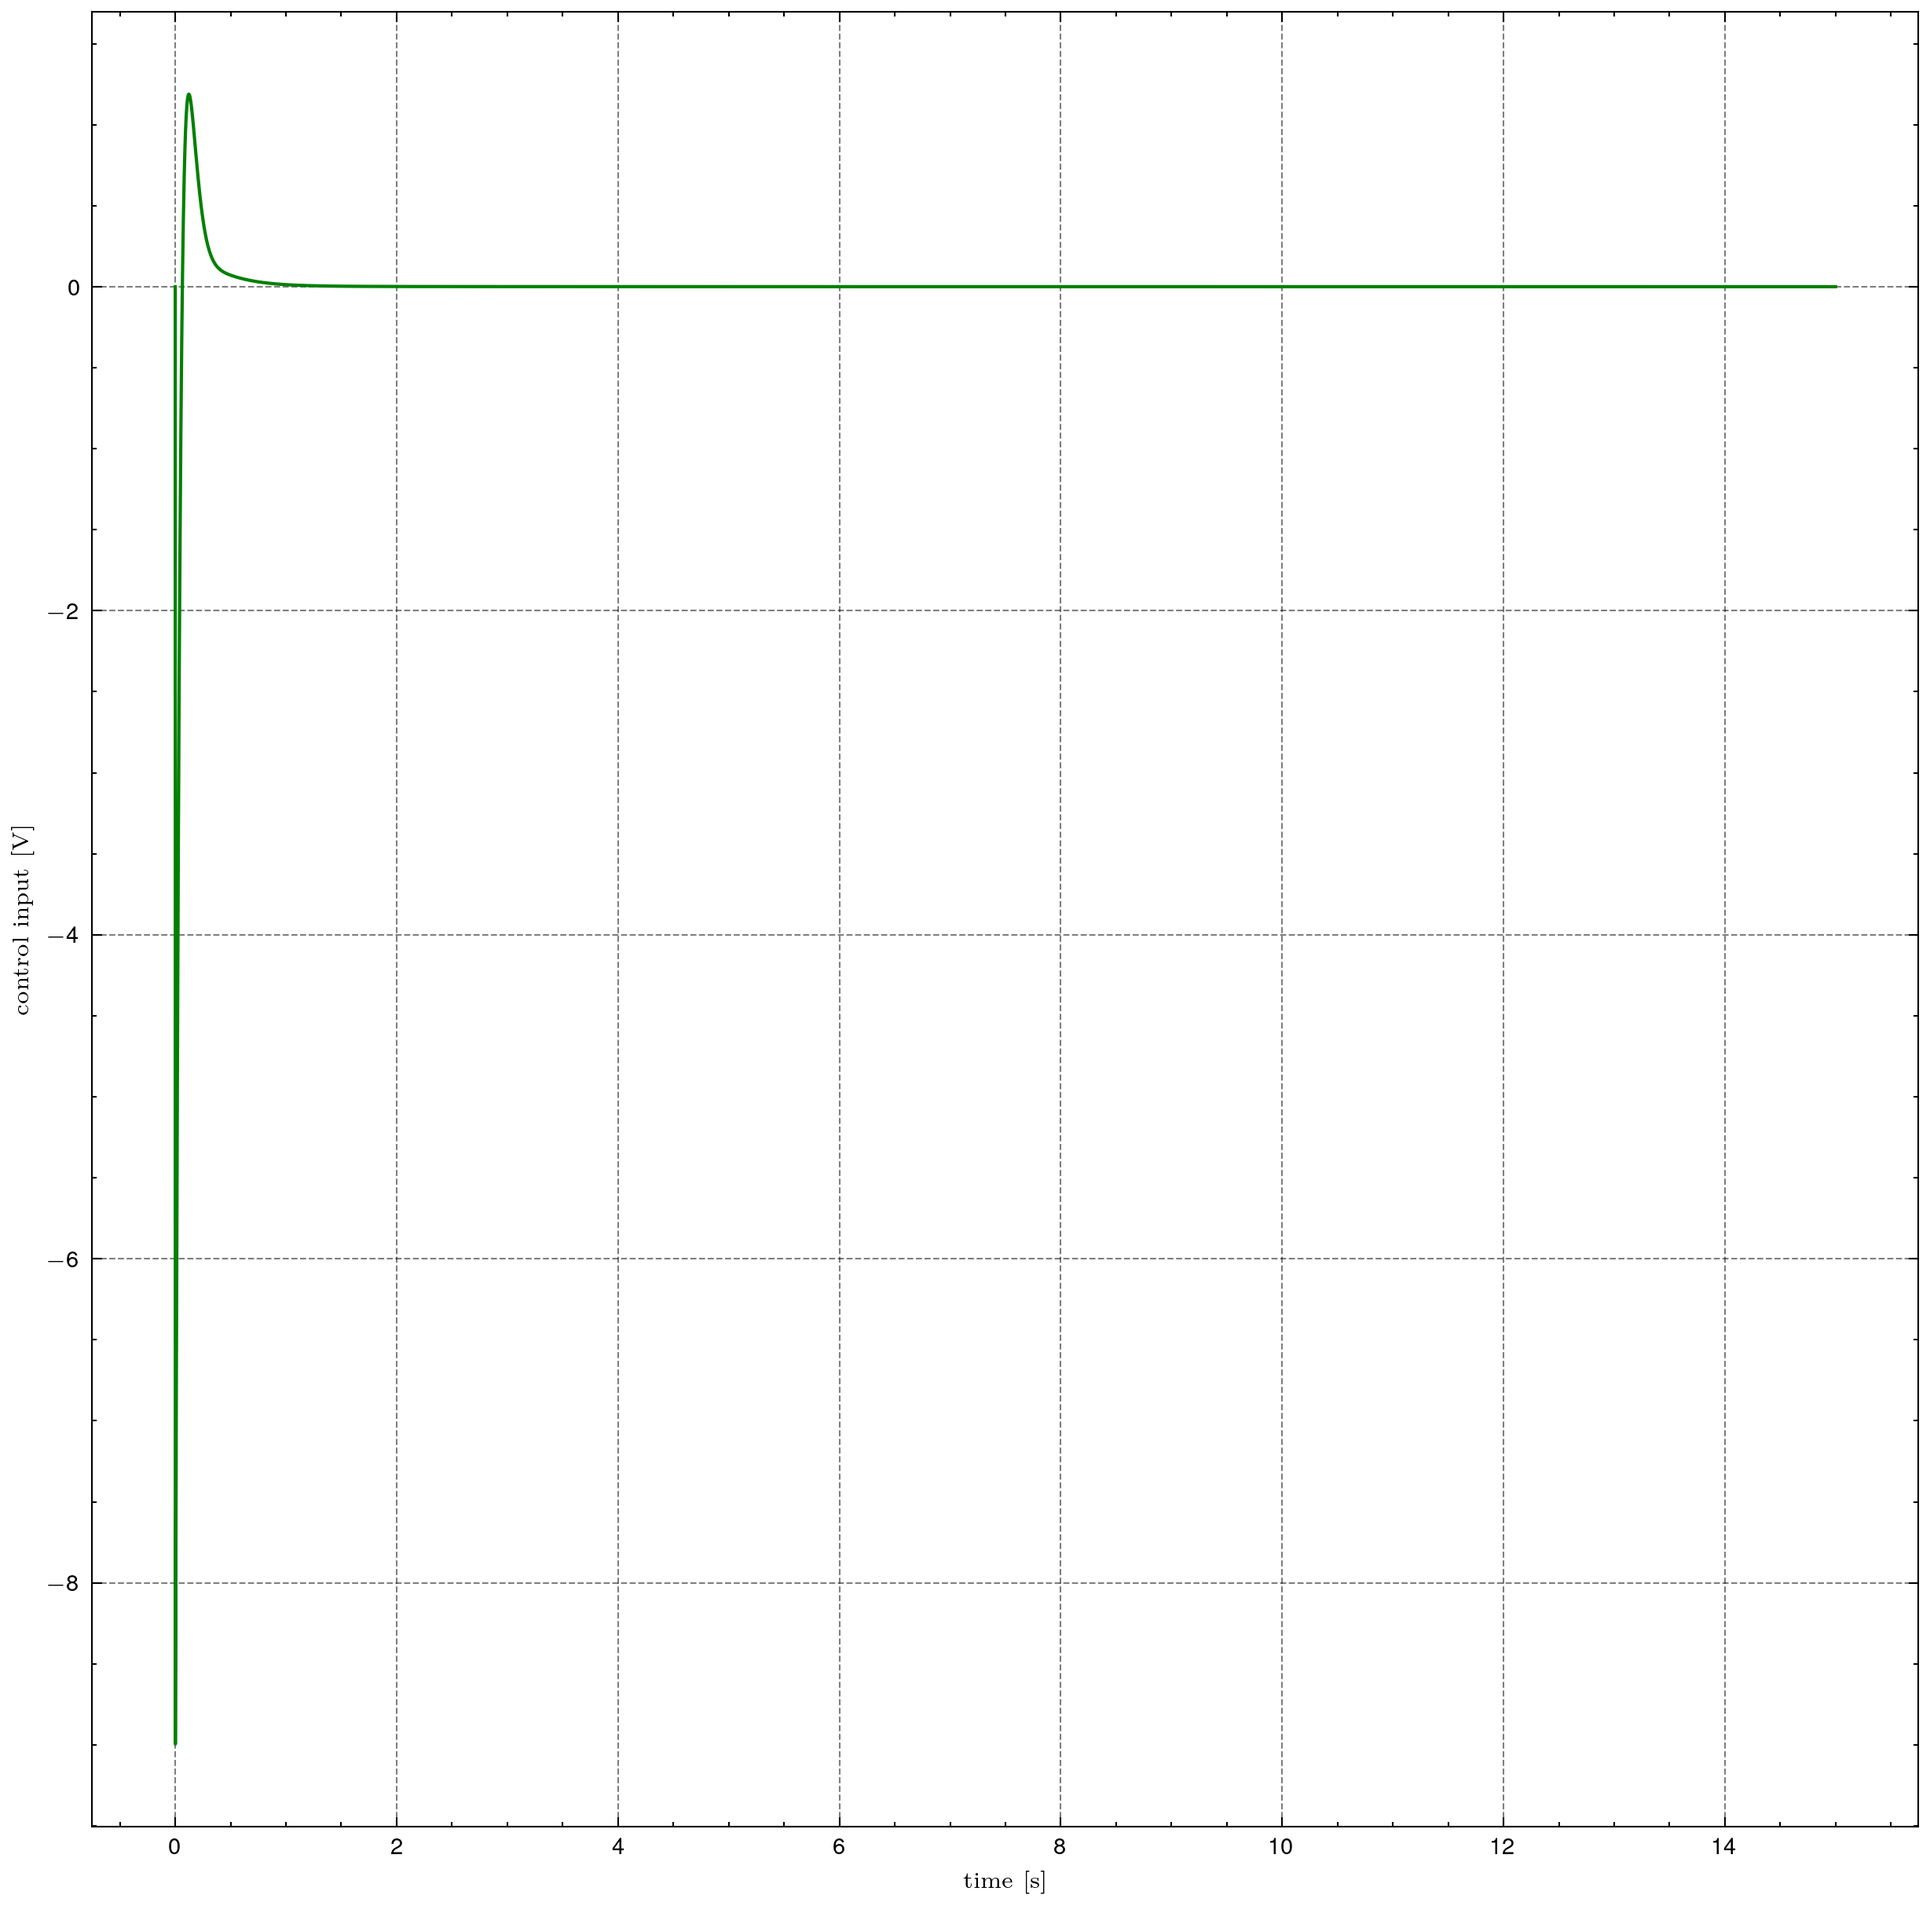
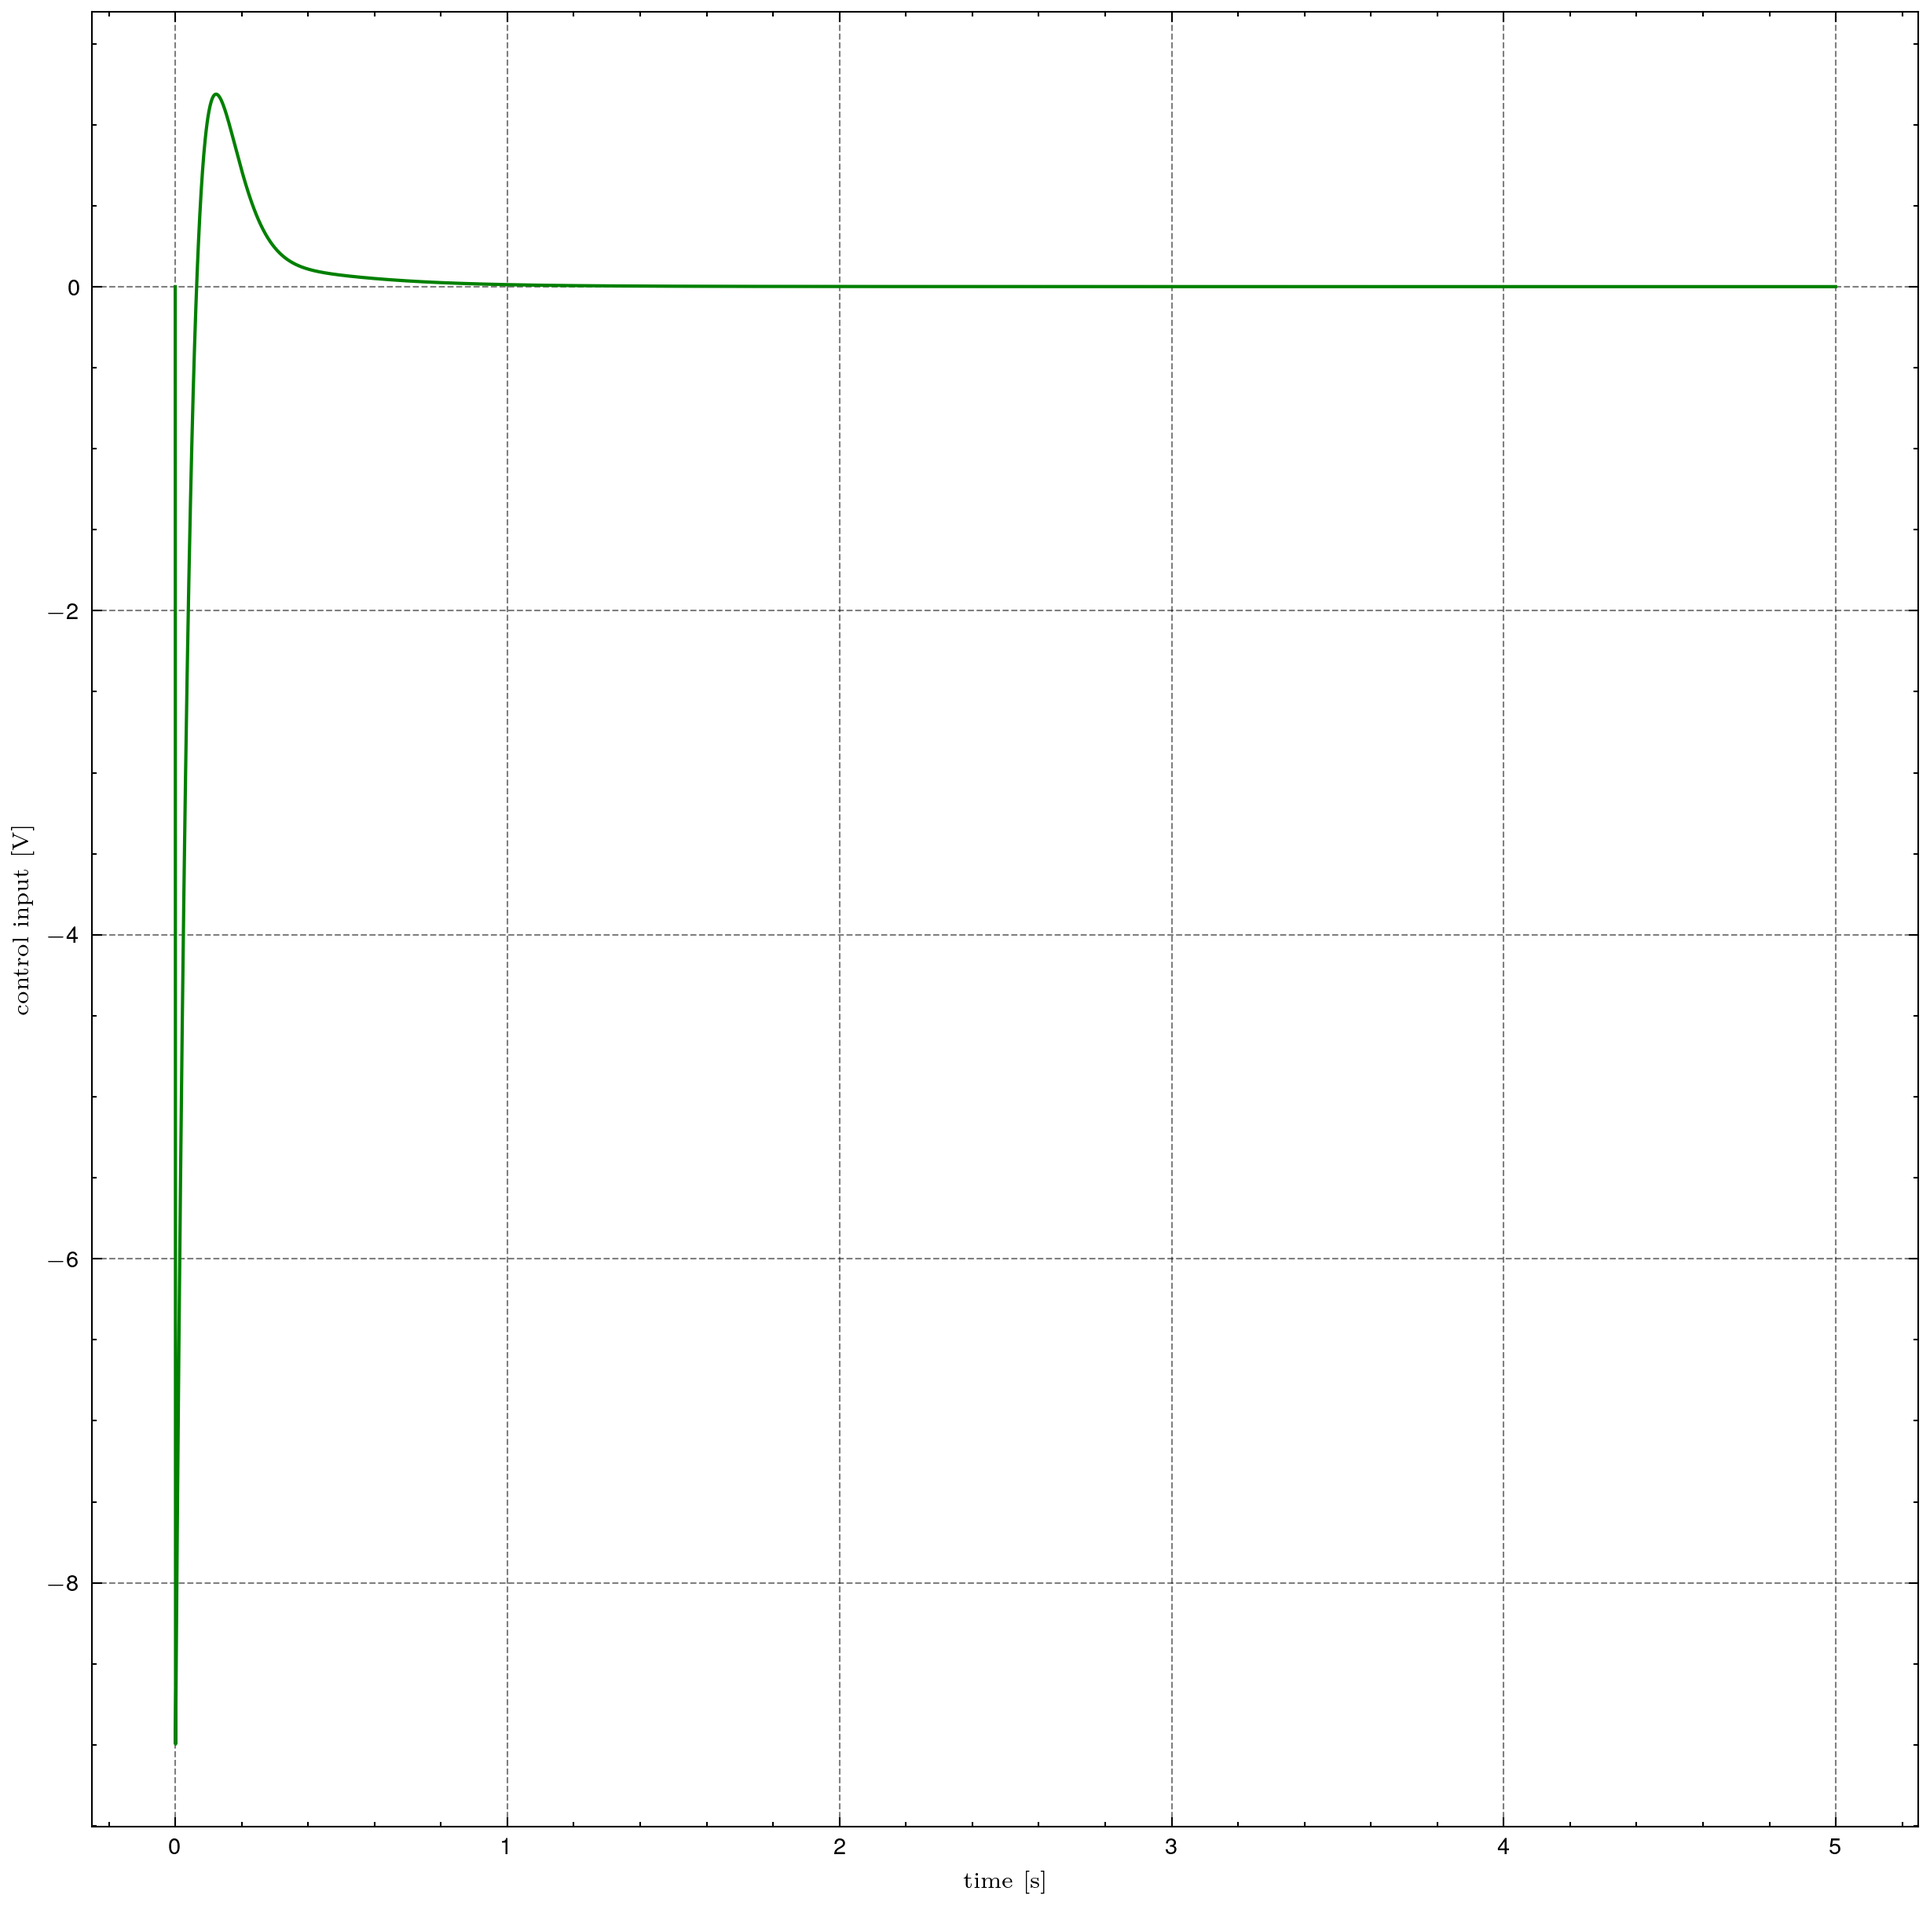
.

Changed region(s): [[0.0928, 0.0309, 0.2784, 0.371]]

diff --git a/main.py b/main.py
@@ -28,7 +28,7 @@ initial_condition = np.array([
 
 x = np.copy(initial_condition)
 
-simulation_time = 15
+simulation_time = 5
 simulation_step = 1e-3
 
 iterations = int(simulation_time / simulation_step)
@@ -37,6 +37,9 @@ time = np.arange(0, simulation_time, simulation_step)
 
 theta_values = np.zeros((iterations, 2))
 alpha_values = np.zeros((iterations, 2))
+
+theta_values[0] = np.array([x[0], x[2]]).T
+alpha_values[0] = np.array([x[1], x[3]]).T
 
 us = np.zeros((iterations, 1))
 
@@ -57,10 +60,10 @@ for i in range(1, iterations):
   theta_values[i] = np.array([x[0], x[2]]).T
   alpha_values[i] = np.array([x[1], x[3]]).T
 
-  [_, alpha_dot] = signal.dlsim(Gd, x[1])
+  [_, alpha_dot] = signal.dlsim(Gd, alpha_values[:i+1, 0], time[:i+1])
   us[i] = u
 
-  test[i] = alpha_dot
+  test[i] = alpha_dot[-1]
 
 
 fig1, axs = plt.subplots(2, 2, figsize=(10, 10))
